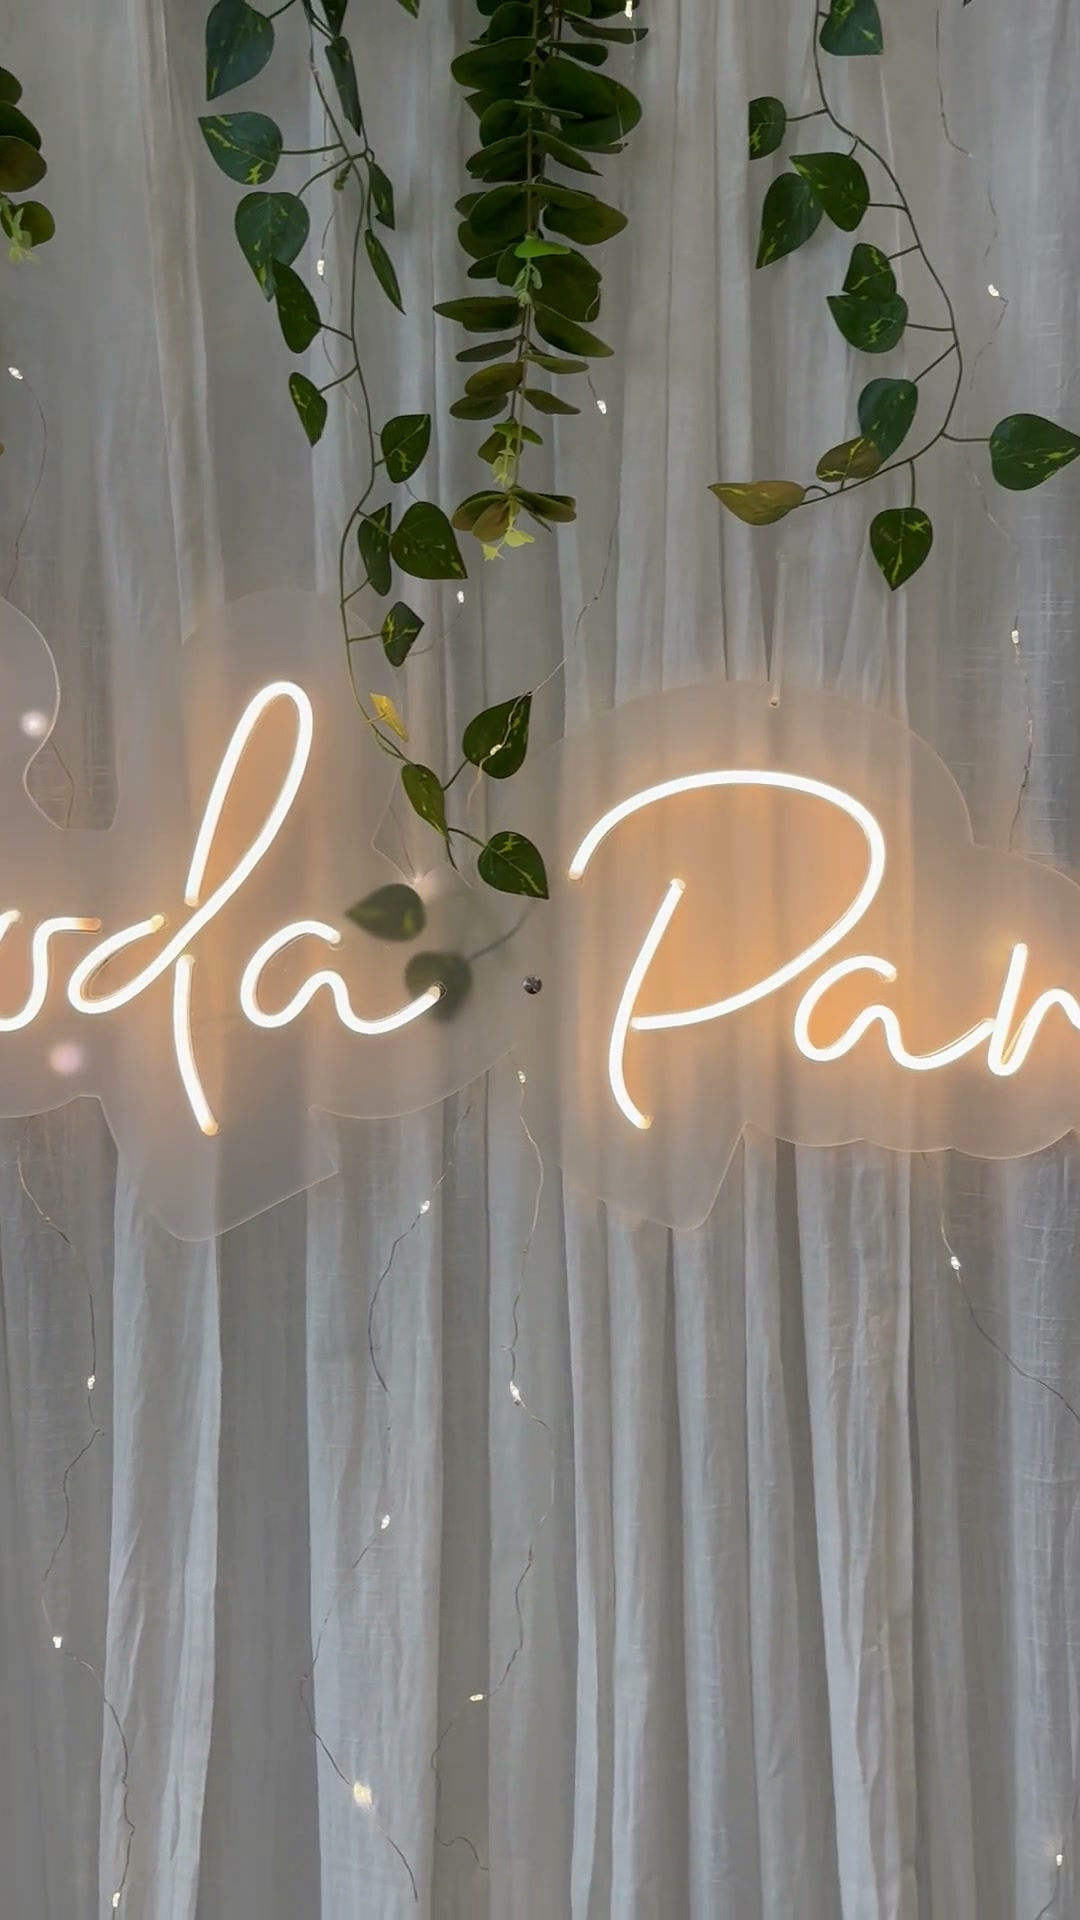
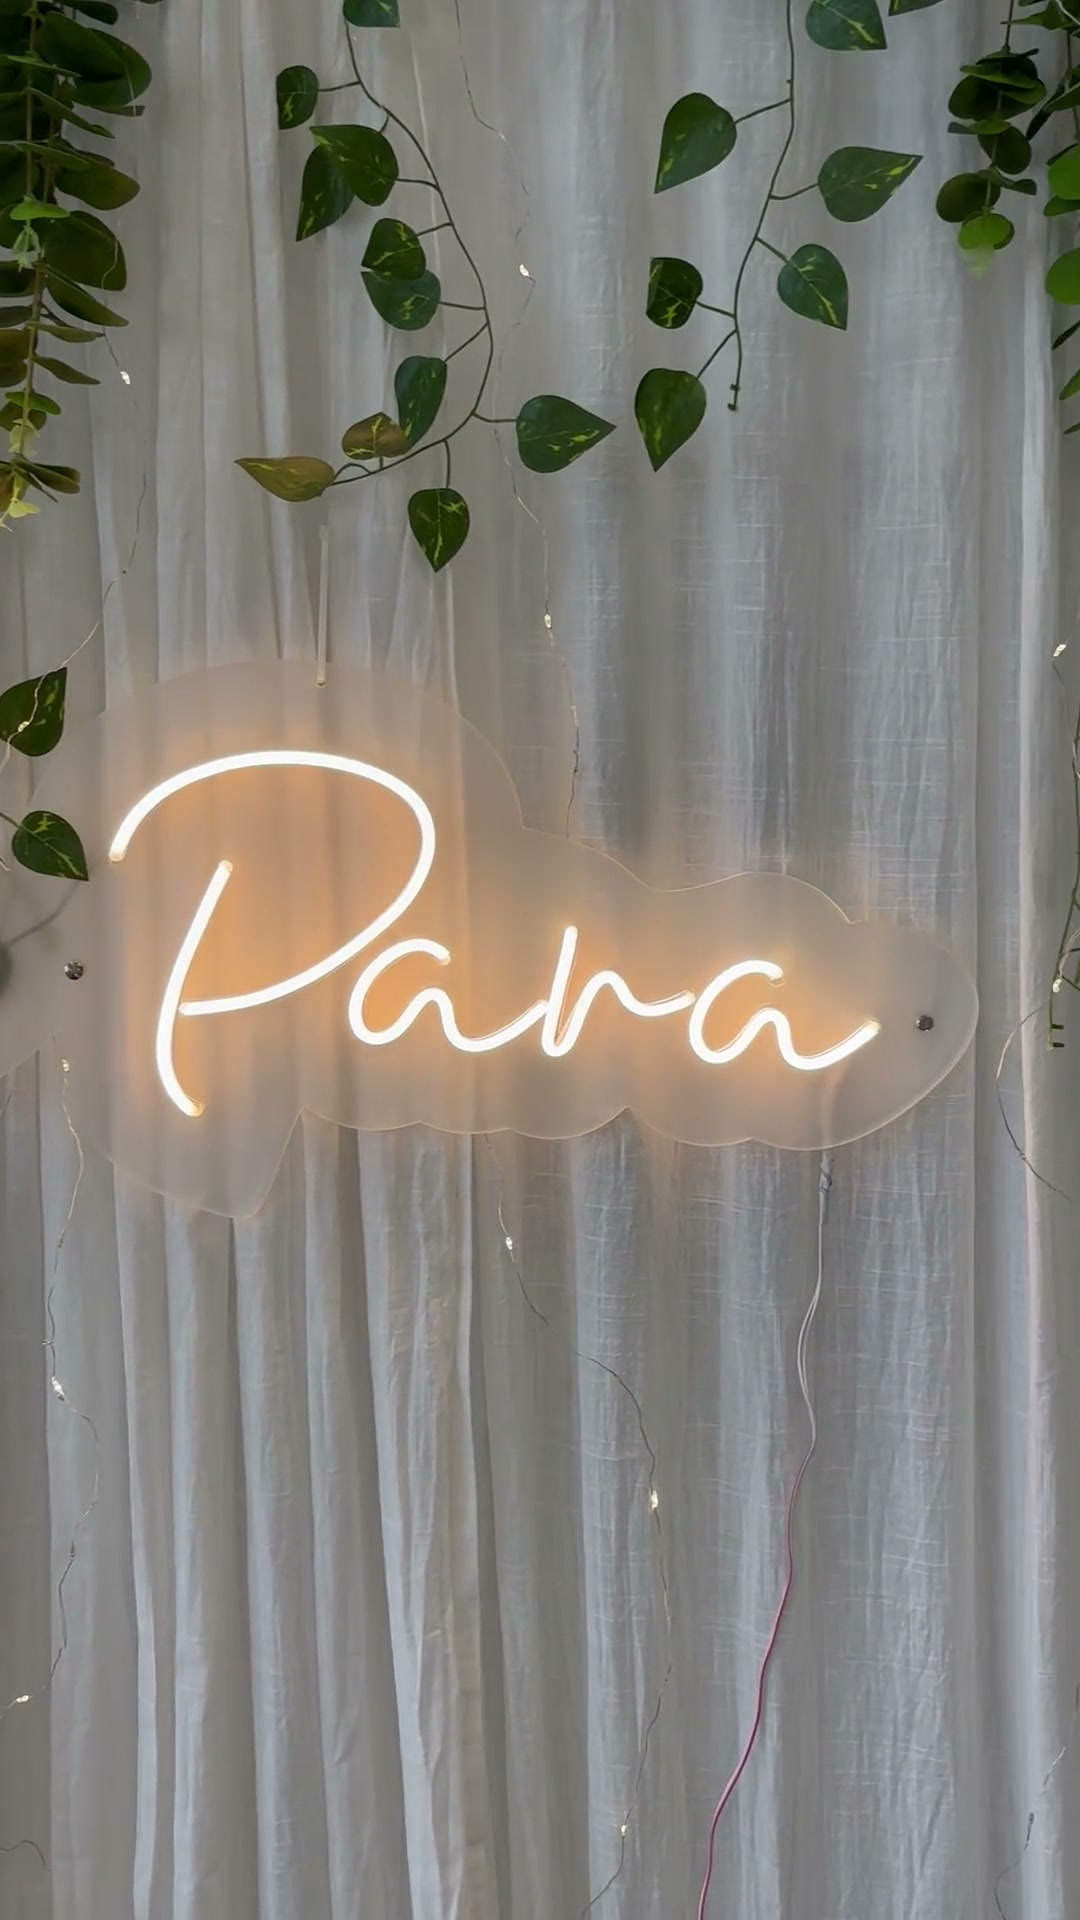
fix: navbar, hero crop, portfolio crops, and service-area copy (#27)
* chore: accept Next.js's generated agent-rules block

next dev writes this block to CLAUDE.md on every run; committing it
keeps the working tree clean instead of re-diffing it on every session.

Claude-Session: https://claude.ai/code/session_01NDhN53aQKgYcsuHURCDe3n

* fix: enlarge navbar logo and switch wordmark to Glass Antiqua

The badge and wordmark were too small to read in the header at normal
viewing distance. Bumped the icon 40px -> 56px and the wordmark up a
size, and gave the wordmark its own font (Glass Antiqua, matching the
client's logo) via a new --font-wordmark token, separate from
--font-display so every heading stays on Marcellus.

Claude-Session: https://claude.ai/code/session_01NDhN53aQKgYcsuHURCDe3n

* fix: reframe the hero so the neon sign text isn't cropped away

The old poster froze the video mid-pan, showing fragments of both
"Mloda" and "Para" at once with neither legible. Extracting frames
across the clip confirmed the two words are never both in frame in
this footage - it's a phone pan across two separate signs, not one
shot. Replaced the poster with the cleanest single frame (full "Para"
plus hanging greenery) and tuned object-position on both the poster
and the video so that frame stays fully in view from mobile through
1920px-wide desktop, instead of the default centre crop cutting off
the bottom of the text on wide viewports.

Claude-Session: https://claude.ai/code/session_01NDhN53aQKgYcsuHURCDe3n
[…]

diff --git a/src/app/layout.tsx b/src/app/layout.tsx
@@ -1,5 +1,5 @@
 import type { Metadata } from "next";
-import { Jost, Marcellus } from "next/font/google";
+import { Glass_Antiqua, Jost, Marcellus } from "next/font/google";
 
 import { SiteFooter } from "@/components/site-footer";
 import { SiteHeader } from "@/components/site-header";
@@ -22,6 +22,17 @@ const jost = Jost({
   display: "swap",
 });
 
+// The wordmark only — matches the client's own logo (see
+// `docs/superpowers/specs`), which is deliberately not `--font-display`: that
+// one is Marcellus, set for every heading on the site. Glass Antiqua ships one
+// weight, 400.
+const glassAntiqua = Glass_Antiqua({
+  variable: "--font-glass-antiqua",
+  subsets: ["latin-ext"],
+  weight: "400",
+  display: "swap",
+});
+
 export const metadata: Metadata = {
   // Every relative URL in a page's metadata — canonicals and preview images
   // most of all — is resolved against this.
@@ -37,7 +48,10 @@ export default function RootLayout({
   children,
 }: Readonly<{ children: React.ReactNode }>) {
   return (
-    <html lang="pl" className={`${marcellus.variable} ${jost.variable}`}>
+    <html
+      lang="pl"
+      className={`${marcellus.variable} ${jost.variable} ${glassAntiqua.variable}`}
+    >
       <body className="flex min-h-screen flex-col font-sans antialiased">
         <SiteHeader />
         <main className="flex-1">{children}</main>

diff --git a/src/app/page.tsx b/src/app/page.tsx
@@ -103,7 +103,7 @@ export default function HomePage() {
 
         <div className="page-shell relative w-full py-20 sm:py-28">
           <p className="text-sm tracking-[0.25em] text-blush-300 uppercase">
-            {site.serviceArea.slice(0, 2).join(" · ")} i okolice
+            {site.city} i okolice
           </p>
           <h1 className="mt-6 max-w-3xl font-display text-4xl leading-tight text-cream-50 sm:text-6xl">
             {site.tagline} w {site.cityLocative}
@@ -152,7 +152,7 @@ export default function HomePage() {
             to, kogo posadzić przy którym stole.
           </p>
           <p className="mt-8 text-sm tracking-[0.2em] text-blush-300 uppercase">
-            {site.serviceArea.join(" · ")}
+            {site.city} i okolice
           </p>
           <p className="mt-8">
             <Link

diff --git a/content/faq/index.ts b/content/faq/index.ts
@@ -74,11 +74,7 @@ export const pytania: readonly Pytanie[] = [
   {
     id: "obszar",
     pytanie: "Gdzie pracujecie?",
-    odpowiedz: `${site.city} i okolice — ${site.serviceArea
-      .filter((miasto) => miasto !== site.city)
-      .join(
-        ", ",
-      )}. Przy większych realizacjach dojeżdżamy również dalej, więc dalszy adres nie przekreśla rozmowy — napiszcie, gdzie jest sala, a odpowiemy wprost.`,
+    odpowiedz: `${site.city} i okolice. Przy większych realizacjach dojeżdżamy również dalej, więc dalszy adres nie przekreśla rozmowy — napiszcie, gdzie jest sala, a odpowiemy wprost.`,
   },
   {
     id: "pierwsza-rozmowa",

diff --git a/src/components/site-header.tsx b/src/components/site-header.tsx
@@ -24,8 +24,8 @@ export function SiteHeader() {
            * to a wordmark that already names the site, so a screen reader
            * does not announce the link twice.
            */}
-          <Image src={znak} alt="" width={40} height={40} className="shrink-0" />
-          <span className="font-display text-xl tracking-[0.35em] text-blush-200 uppercase sm:text-2xl">
+          <Image src={znak} alt="" width={56} height={56} className="shrink-0" />
+          <span className="font-wordmark text-2xl tracking-[0.35em] text-blush-200 uppercase sm:text-3xl">
             {site.wordmark}
           </span>
         </Link>

diff --git a/content/realizacje/types.ts b/content/realizacje/types.ts
@@ -40,6 +40,14 @@ export interface Fotografia {
   image: StaticImageData;
   /** Descriptive Polish, written for this photograph. */
   alt: string;
+  /**
+   * A CSS `object-position` value, for the one place a photograph is cropped
+   * rather than shown whole: the card's `aspect-4/3` cover in a listing (see
+   * `RealizationCard`). Absent unless the default centre crop cuts into the
+   * subject — most photographs never need it. The full-shape gallery on a
+   * realization's own page ignores this; nothing there is ever cropped.
+   */
+  position?: string;
 }
 
 export interface Realizacja {

diff --git a/src/components/hero-video.tsx b/src/components/hero-video.tsx
@@ -122,7 +122,7 @@ export function HeroVideo({ video }: { video: HeroVideoSource }) {
       onPlaying={function revealOncePlaying() {
         setPlaying(true);
       }}
-      className={`absolute inset-0 h-full w-full object-cover transition-opacity duration-1000 ${
+      className={`absolute inset-0 h-full w-full object-cover object-[center_45%] transition-opacity duration-1000 ${
         playing ? "opacity-100" : "opacity-0"
       }`}
       /*

diff --git a/src/components/realization-card.tsx b/src/components/realization-card.tsx
@@ -48,6 +48,11 @@ export function RealizationCard({
           placeholder="blur"
           fill
           sizes={sizes}
+          style={
+            realizacja.cover.position
+              ? { objectPosition: realizacja.cover.position }
+              : undefined
+          }
           className="object-cover transition-transform duration-700 ease-out group-hover:scale-[1.03]"
         />
       </div>

diff --git a/src/lib/site.ts b/src/lib/site.ts
@@ -131,7 +131,7 @@ export const site = {
     "Dekoracje weselne, urodzinowe i okolicznościowe w Szczecinie i okolicach.",
   city: "Szczecin",
   cityLocative: "Szczecinie",
-  serviceArea: ["Szczecin", "Police", "Stargard", "Goleniów", "Świnoujście"],
+  serviceArea: ["Szczecin"],
   owner: DO_UZUPELNIENIA,
   phone: DO_UZUPELNIENIA,
   email: DO_UZUPELNIENIA,

diff --git a/src/app/o-nas/page.tsx b/src/app/o-nas/page.tsx
@@ -137,7 +137,7 @@ export default function ONasPage() {
               cokolwiek zostanie zarezerwowane.
             </p>
             <p className="mt-6 text-sm tracking-[0.2em] text-blush-300 uppercase">
-              {site.serviceArea.join(" · ")}
+              {site.city} i okolice
             </p>
             <p className="mt-8">
               <Link

diff --git a/src/components/hero-media.tsx b/src/components/hero-media.tsx
@@ -43,7 +43,7 @@ export function HeroMedia() {
         // Full-bleed at every width, so the browser has no narrower candidate
         // to choose and no reason to guess.
         sizes="100vw"
-        className="object-cover"
+        className="object-cover object-[center_45%]"
       />
 
       {hero.video ? <HeroVideo video={hero.video} /> : null}

diff --git a/src/app/kontakt/page.tsx b/src/app/kontakt/page.tsx
@@ -75,7 +75,7 @@ export default function KontaktPage() {
           </h2>
           <ContactChannels className="mt-8 grid gap-6" />
           <p className="mt-8 text-sm leading-relaxed text-cream-50/60">
-            {site.serviceArea.join(" · ")}
+            {site.city} i okolice
           </p>
         </section>
       </div>

diff --git a/content/realizacje/chrzest-i-roczek/index.ts b/content/realizacje/chrzest-i-roczek/index.ts
@@ -20,6 +20,7 @@ const photos: readonly [Fotografia, ...Fotografia[]] = [
   {
     image: zdjecie01,
     alt: "Ścianka z papierowych stokrotek w pudrowym różu i kremie, z personalizowanym napisem „Chrzest święty i roczek Poli” oraz białą cyfrą 1",
+    position: "center 15%",
   },
   {
     image: zdjecie02,
